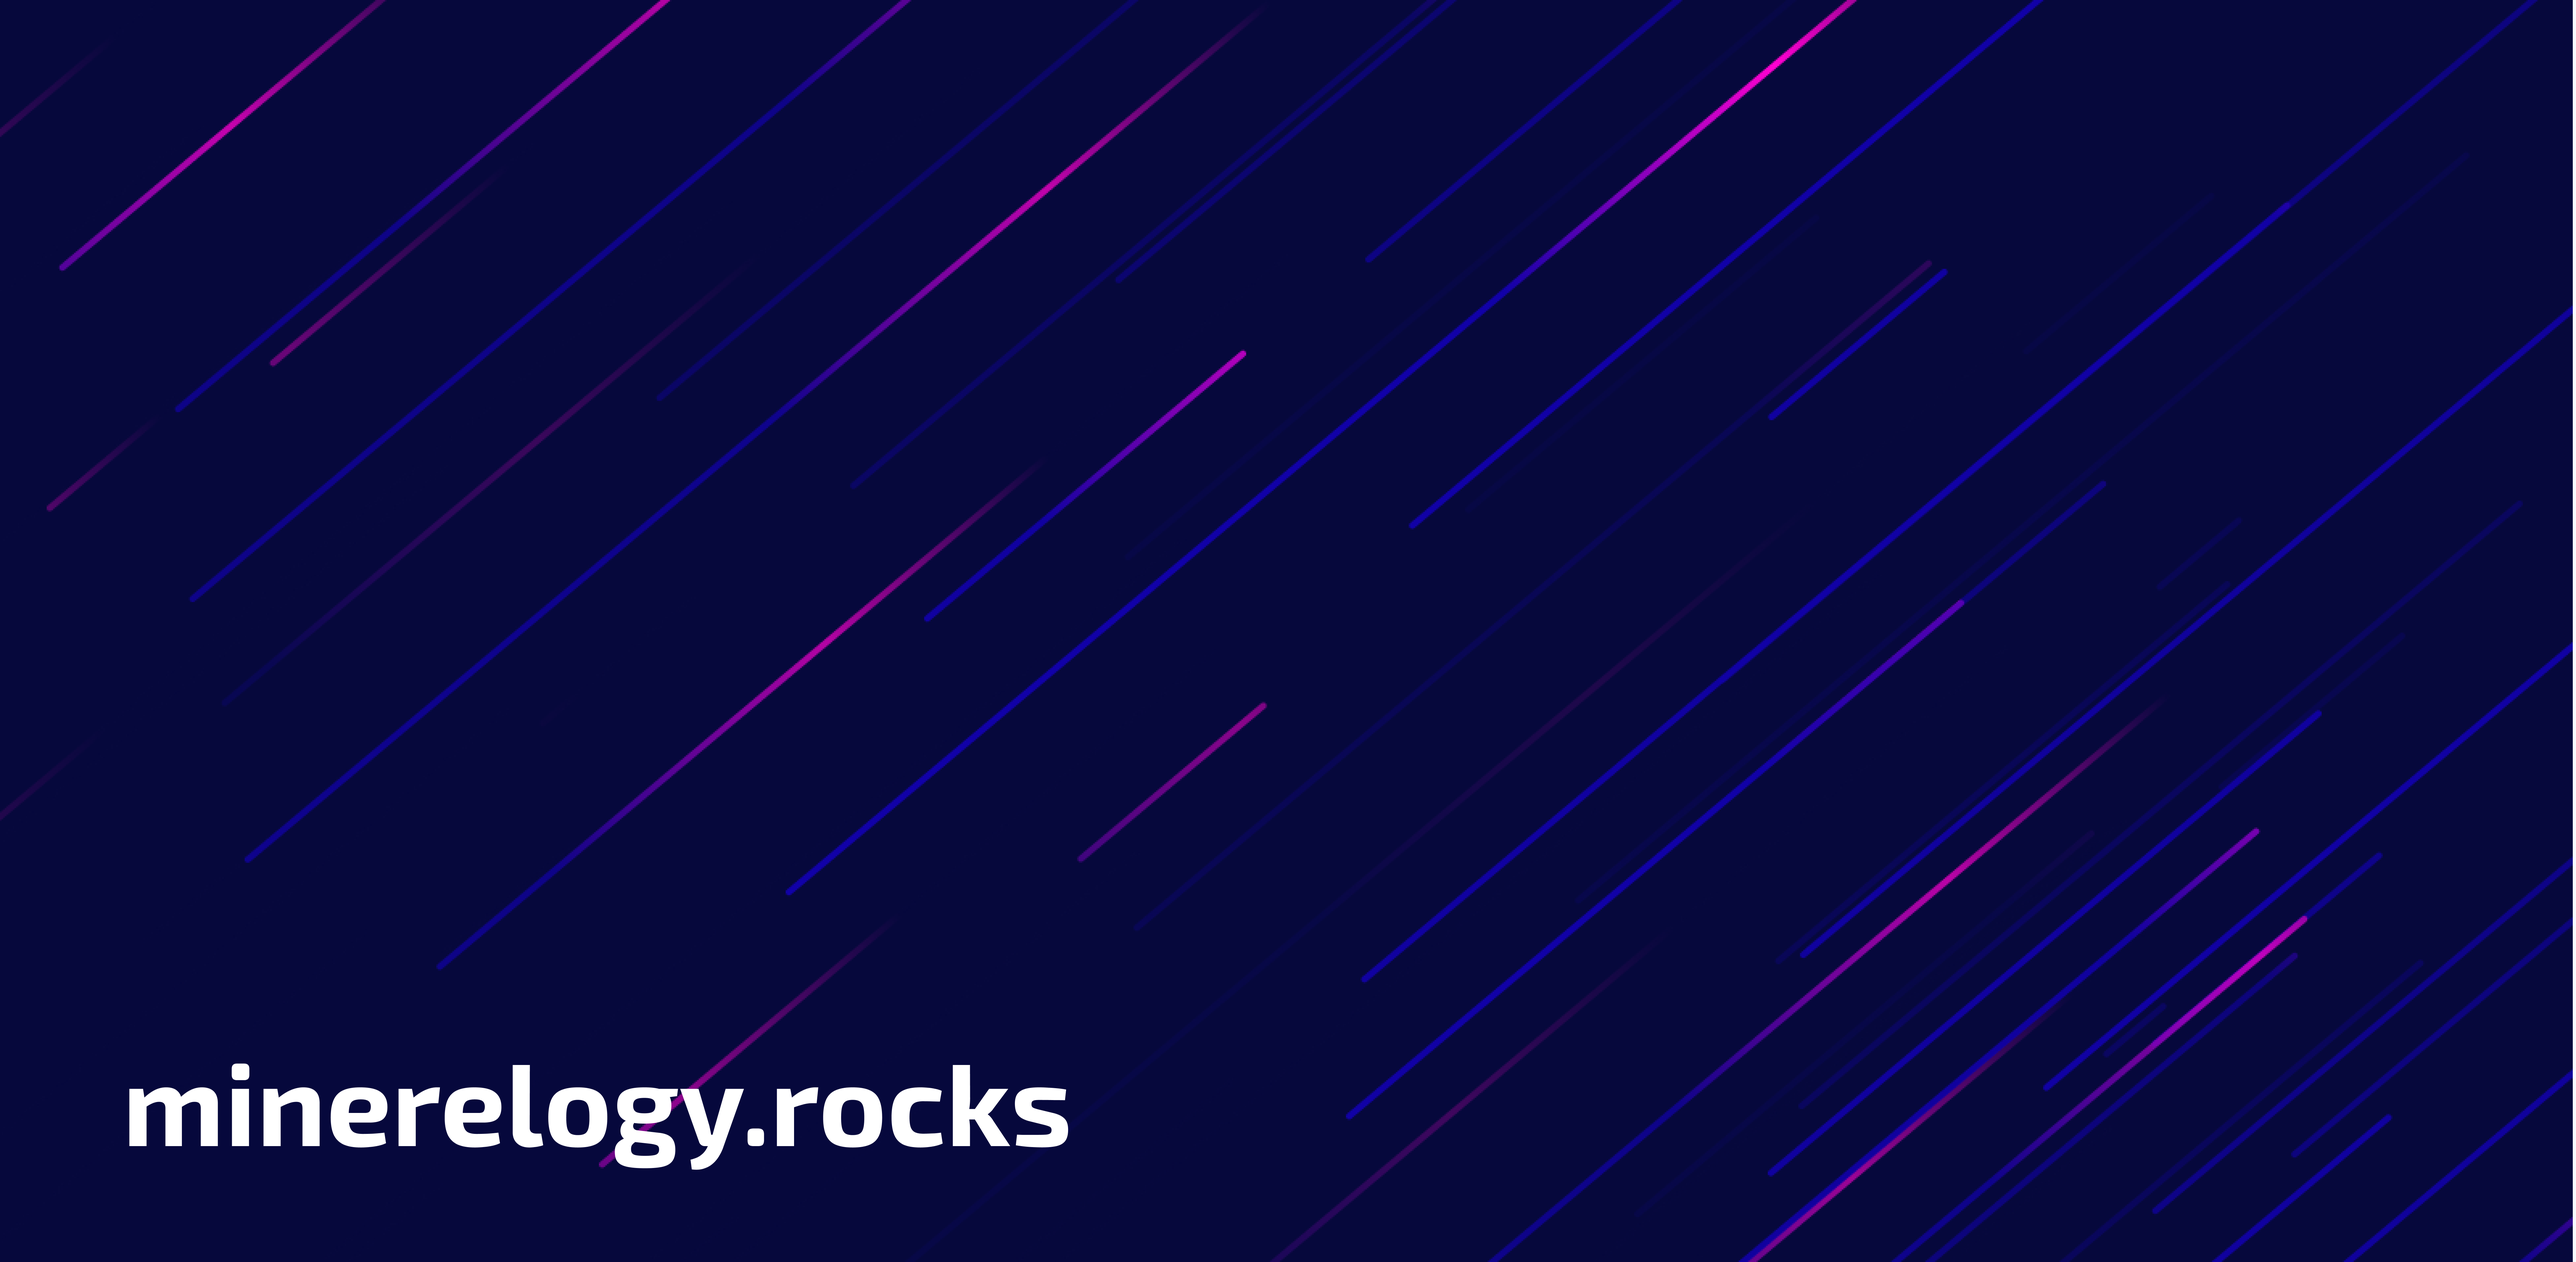
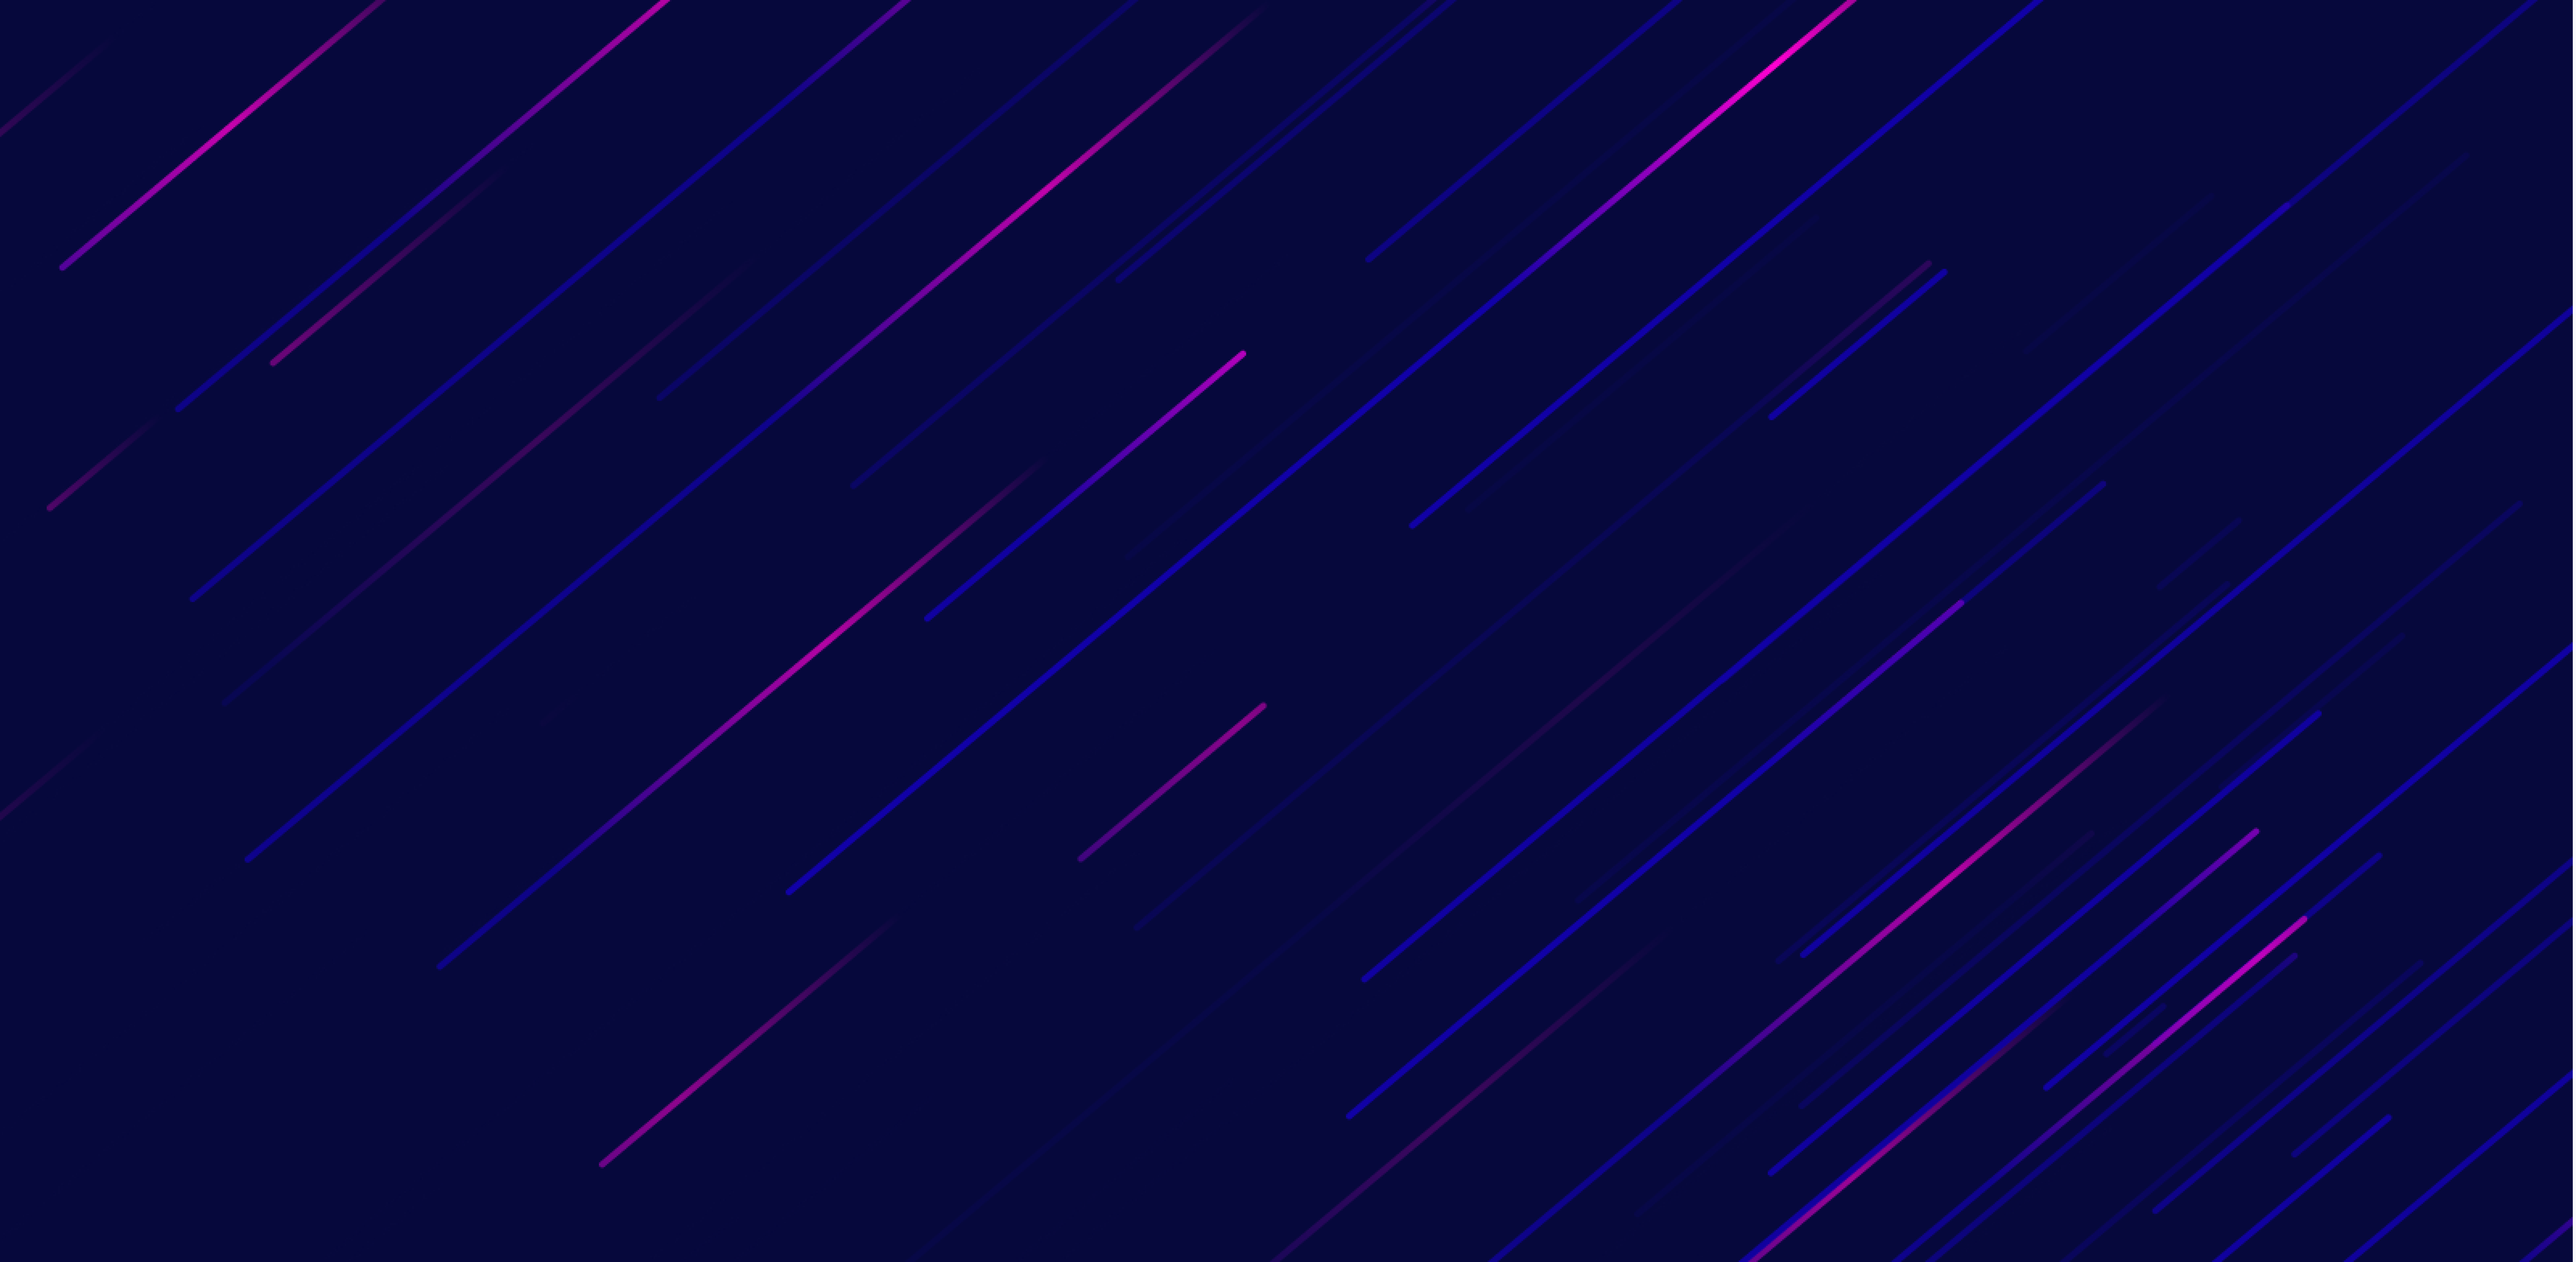
OG support WIP

Changed region(s): [[0.0312, 0.8403, 0.4375, 0.9337]]

diff --git a/app/api/og/route.tsx b/app/api/og/route.tsx
@@ -1,0 +1,41 @@
+import { ImageResponse } from 'next/og';
+import { NextRequest } from 'next/server';
+
+
+export async function GET(request: NextRequest) {
+  const { searchParams } = new URL(request.url);
+  const title = searchParams.get('title') || 'mineralogy.rocks';
+
+  return new ImageResponse(
+    (
+      <div style={{
+        height: '100%',
+        width: '100%',
+        display: 'flex',
+        flexDirection: 'column',
+        alignItems: 'flex-start',
+        justifyContent: 'center',
+        backgroundImage: 'url(https://mineralogy.rocks/og-bg.png)',
+        backgroundSize: '1210px 600px',
+      }}>
+        <div style={{
+            fontSize: 60,
+            fontWeight: 100,
+            fontStyle: 'normal',
+            letterSpacing: '-0.025em',
+            color: 'white',
+            marginBottom: 0,
+            padding: '0 50px',
+            lineHeight: 1.4,
+            whiteSpace: 'pre-wrap',
+          }}>
+          {title}
+        </div>
+      </div>
+    ),
+    {
+      width: 1200,
+      height: 600,
+    },
+  );
+}
